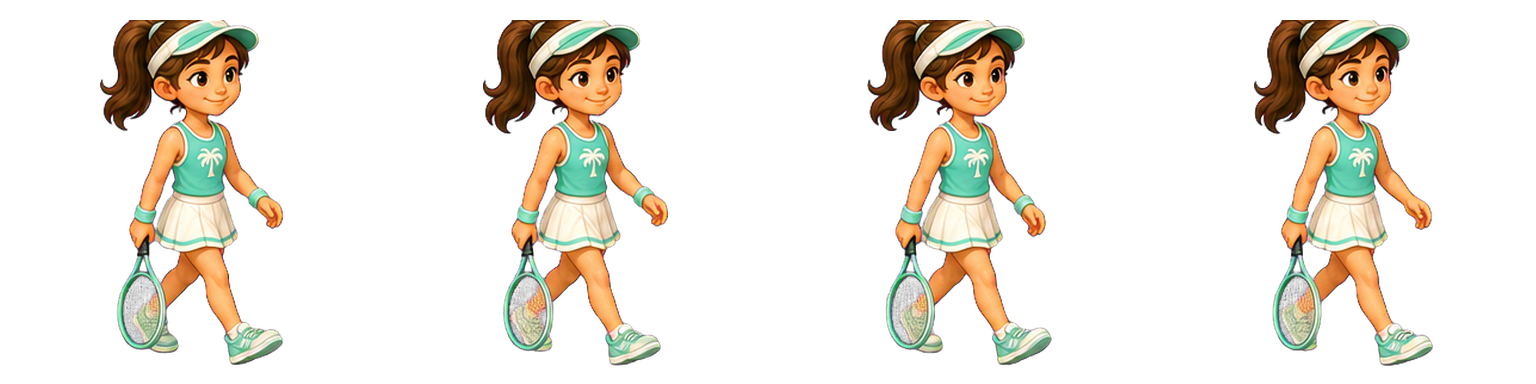
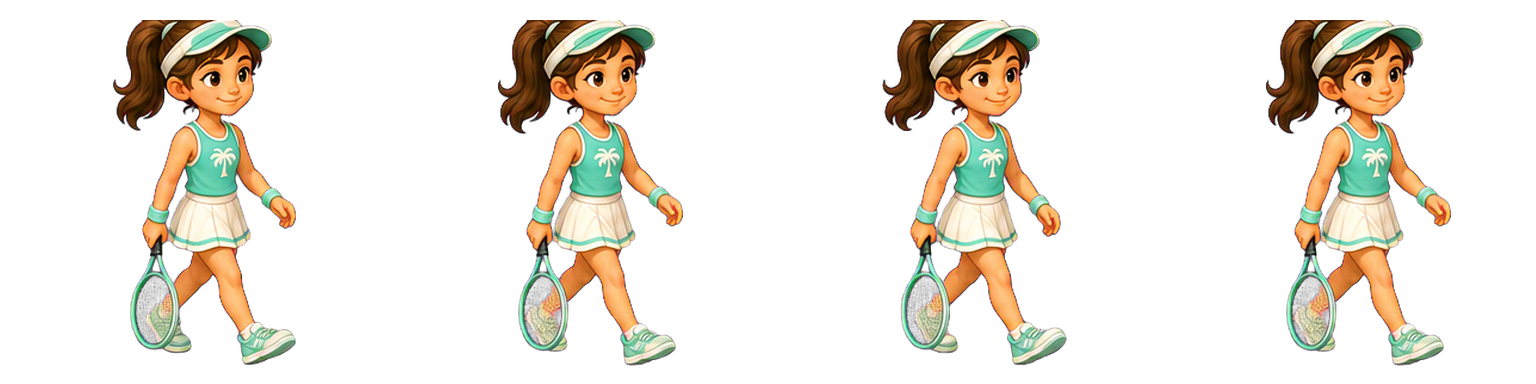
Fix Compo modern walker animation

diff --git a/idle/styles.css b/idle/styles.css
@@ -245,9 +245,9 @@ svg { display: block; }
 .beach-habitat:focus-visible .beach-label,
 .world-art.layout-mode .beach-label { opacity:1; translate:-50% 0; }
 .beach-life { position:absolute; z-index:8; inset:0; overflow:hidden; pointer-events:none; }
-.shore-walker { position:absolute; z-index:8; width:clamp(54px,5vw,78px); aspect-ratio:1; overflow:visible; opacity:1; filter:drop-shadow(0 5px 3px rgba(21,52,62,.26)); transition-property:left,top; transition-timing-function:linear; pointer-events:none; }
+.shore-walker { position:absolute; z-index:8; width:clamp(60px,5.7vw,88px); aspect-ratio:1; overflow:visible; opacity:1; filter:drop-shadow(0 5px 3px rgba(21,52,62,.26)); transition-property:left,top; transition-timing-function:linear; pointer-events:none; }
 .shore-walker-frame { position:absolute; inset:0; display:block; overflow:hidden; transform-origin:center bottom; animation:walker-body-bob 800ms ease-in-out infinite; }
-.shore-walker-strip { position:absolute; top:0; left:0; display:block; width:400%; height:100%; max-width:none; object-fit:fill; animation:shore-walk-strip 940ms steps(4) infinite; }
+.shore-walker-strip { position:absolute; top:0; left:0; display:block; width:400%; height:100%; max-width:none; object-fit:fill; animation:shore-walk-strip 940ms steps(4,end) infinite; }
 .shore-walker.walking-left .shore-walker-frame { scale:-1 1; }
 @keyframes shore-walk-strip { to { transform:translateX(-100%); } }
 .world-vignette { position: absolute; inset: 0; z-index: 0; pointer-events: none; background: linear-gradient(90deg, rgba(25, 56, 39, .13), transparent 20%, transparent 74%, rgba(31, 63, 44, .1)), linear-gradient(0deg, rgba(20, 48, 34, .16), transparent 23%); }

diff --git a/idle/sw.js b/idle/sw.js
@@ -1,4 +1,4 @@
-const CACHE_NAME = "idle-town-pwa-cache-v26";
+const CACHE_NAME = "idle-town-pwa-cache-v27";
 const CROP_FILES = ["carrot", "wheat", "strawberry", "pumpkin", "blueberry", "apple"].flatMap((crop) =>
   ["soil", "sprout", "young", "mature"].map((stage) => `./assets/art/living-world/crops/${crop}-${stage}.png`)
 );
